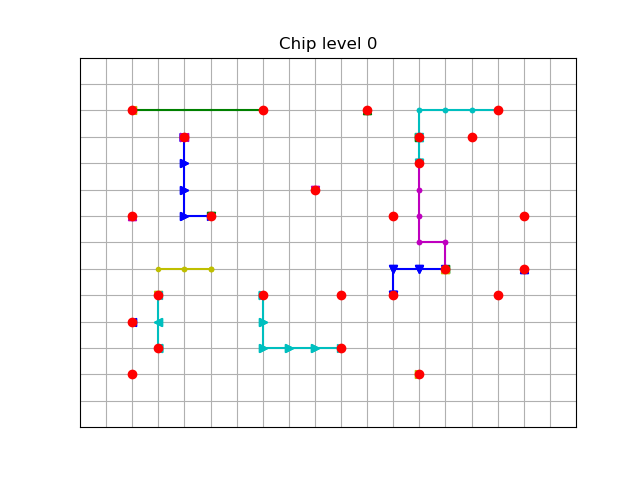
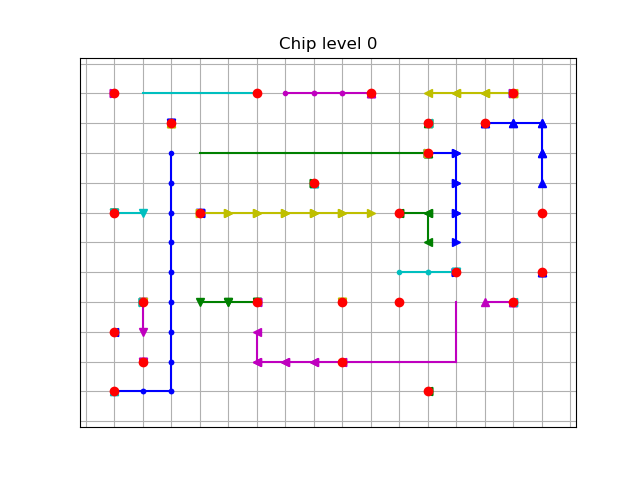
alterations to fitness

diff --git a/main.py b/main.py
@@ -24,8 +24,7 @@ def main():
 	"""
 		Extract program input
 	"""
-	# TODO make a function for this
-
+	
 	# add parser for command line arguments
 	parser = argparse.ArgumentParser(description="Chips & Circuits. If run without positional arguments deafult program is runned.")
 
@@ -122,15 +121,16 @@ def main():
 					width, height = chip_dimensionsdict[circuit[1]]
 					population_size = 20
 					if algorithm == a_star:
-						netlist[0].sort(key=lambda net: distance(circuit[0][net[0]], circuit[0][net[1]]))
-						total_cost = test_algorithm(circuit[0], width, height, netlist[0], algorithm, do_visualization)
+						# netlist[0].sort(key=lambda net: distance(circuit[0][net[0]], circuit[0][net[1]]))
+						# total_cost = test_algorithm(circuit[0], width, height, netlist[0], algorithm, do_visualization)
+						#
+						# netlist[0].sort(key=lambda net: area(circuit[0][net[0]], circuit[0][net[1]]))
+						# total_cost = min(total_cost, test_algorithm(circuit[0], width, height, netlist[0], algorithm, do_visualization))
 
-						netlist[0].sort(key=lambda net: area(circuit[0][net[0]], circuit[0][net[1]]))
-						total_cost = min(total_cost, test_algorithm(circuit[0], width, height, netlist[0], algorithm, do_visualization))
-						
-						if total_cost > upper_bound(Chip(circuit[0], width, height)):
-							netlist, fitness = make_netlist(population_size, circuit[0], width, height, algorithm, netlist[0])
-							total_cost = min(total_cost, test_algorithm(circuit[0], width, height, netlist, algorithm, do_visualization))
+						# if total_cost > upper_bound(Chip(circuit[0], width, height)):
+						netlist, fitness = make_netlist(population_size, circuit[0], width, height, algorithm, netlist[0])
+						total_cost = min(total_cost, test_algorithm(circuit[0], width, height, netlist, algorithm, do_visualization))
+
 					else:
 						total_cost = test_algorithm(circuit[0], width, height, netlist[0], algorithm, do_visualization)
 					# test algorithm with netlist obtained from genetic algorithm
@@ -154,13 +154,16 @@ def test_algorithm(circuit, width, height, netlist, algorithm, do_visualization,
 					except:
 						pass
 					for path in chip.paths:
-						if next in chip.paths:
-							chip.walls.append(next)
+						x, y, z = next
+						id = (x, y, z)
+						for node_id in path.nodes:
+							if node_id == id:
+								chip.walls.append(next)
 		try:
 			cost += algorithm(chip, net)
 		except KeyError:
 			return(upper_bound(chip) + index)
-	return cost
+
 
 	# print grid
 	if do_visualization == True:

diff --git a/code/algorithms/genetic.py b/code/algorithms/genetic.py
@@ -4,8 +4,8 @@ from random import *
 from shared_functions import *
 from classChip import *
 
-def fitness(chip, netlist, algorithm):		
-	gates = chip.gates[:]	
+def fitness(chip, netlist, algorithm):
+	gates = chip.gates[:]
 	cost = 0
 	for gate in gates:
 		for next in chip.possible_neighbors(gate.coordinates):
@@ -19,8 +19,11 @@ def fitness(chip, netlist, algorithm):
 					except:
 						pass
 					for path in chip.paths:
-						if next in chip.paths:
-							chip.walls.append(next)
+						x, y, z = next
+						id = (x, y, z)
+						for node_id in path.nodes:
+							if node_id == id:
+								chip.walls.append(next)
 		try:
 			cost += algorithm(chip, net)
 		except KeyError:

diff --git a/code/visualization.py b/code/visualization.py
@@ -170,8 +170,8 @@ def plot_grid_level(results_directory, width, height, all_paths_coordinates=None
 
     # set correct limits and initiate grid
     plt.title("Chip level " + str(level))
-    ax.set_xlim(-1, width)
-    ax.set_ylim(-1, height)
+    ax.set_xlim(-0.2, width - 0.8)
+    ax.set_ylim(-0.2, height - 0.8)
     plt.gca().invert_yaxis()        # invert the y-axis to get correct view
     ax.grid(alpha=1)
     plt.savefig(results_directory + "/plot_grid/plot_grid" + str(level) + ".png")

diff --git a/code/algorithms/greedy.py b/code/algorithms/greedy.py
@@ -22,7 +22,6 @@ def move(coordinates, chip):
 def greedy(chip, net):
 	start, goal = chip.circuit[net[0]] + (0,), chip.circuit[net[1]] + (0,)
 	shortest_path = [start]
-
 	node = None
 	net_cost = 0
 	global x, y, z
